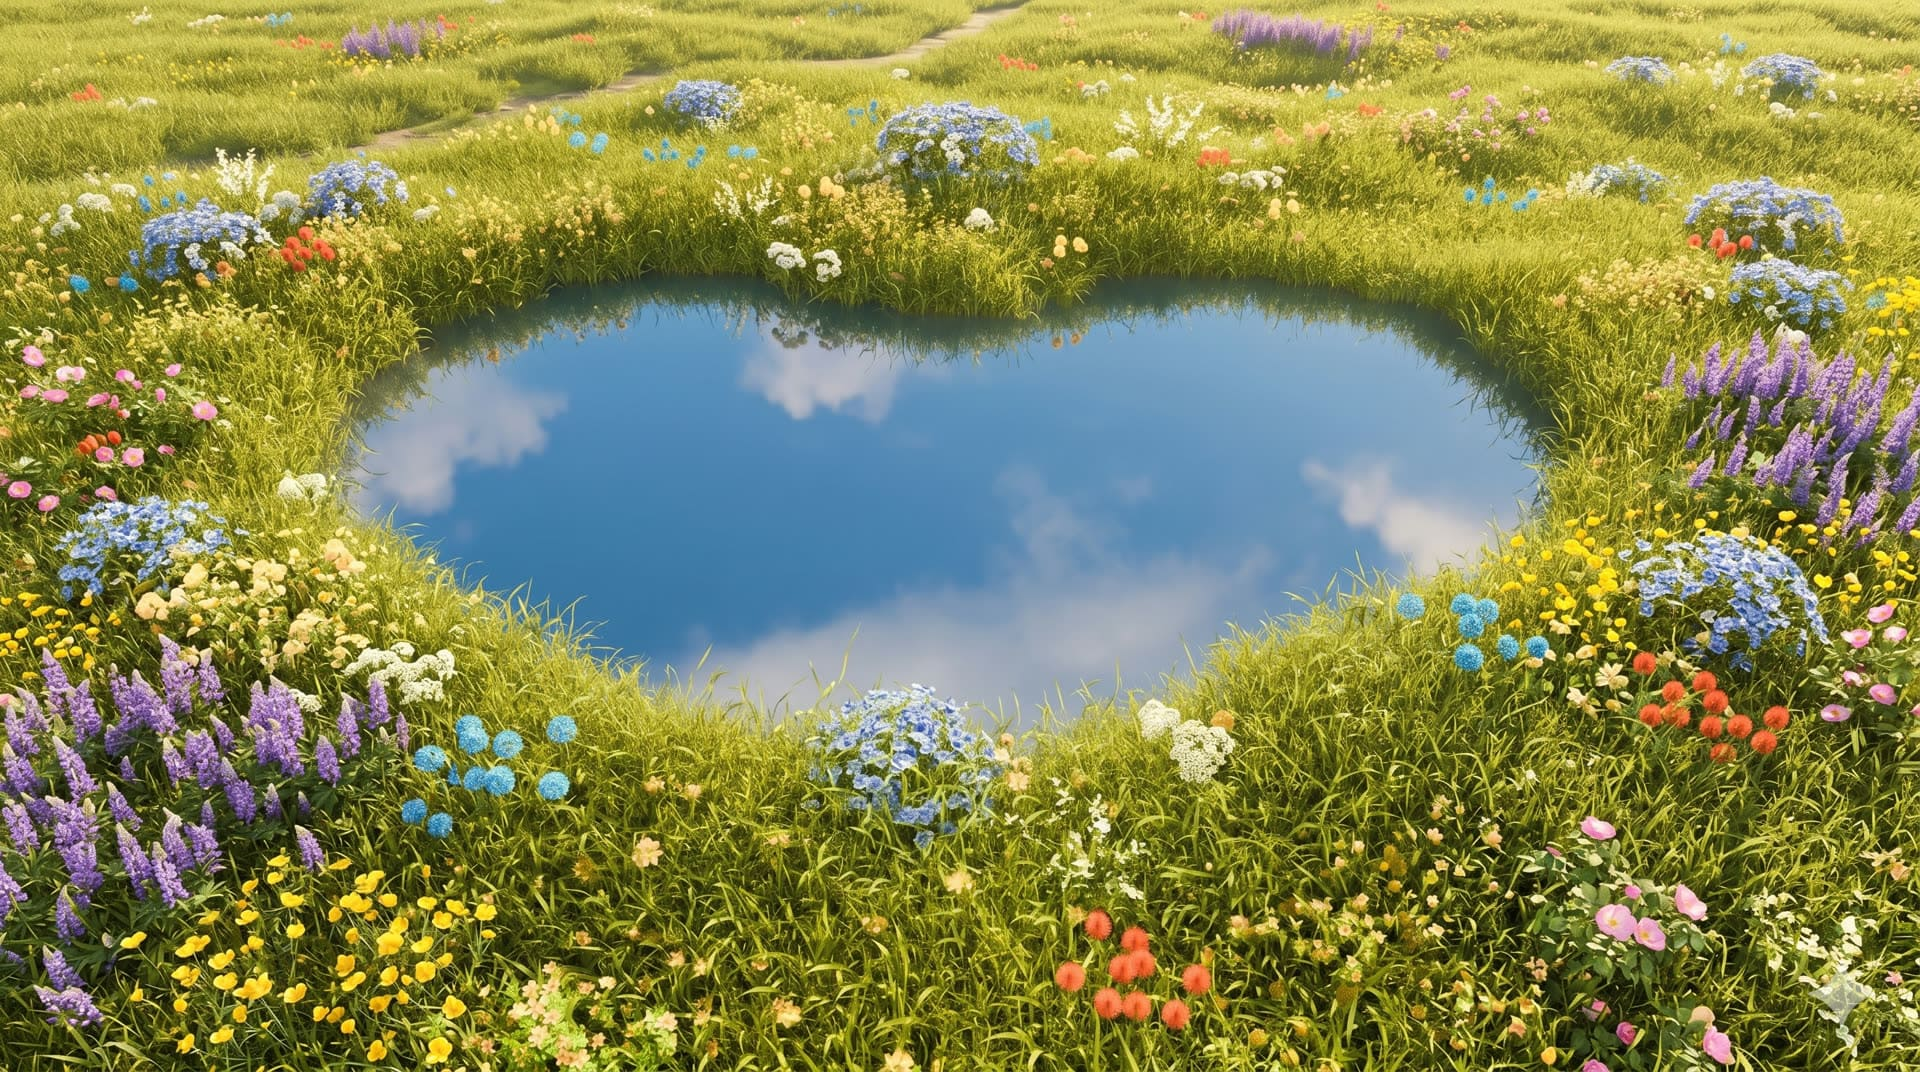
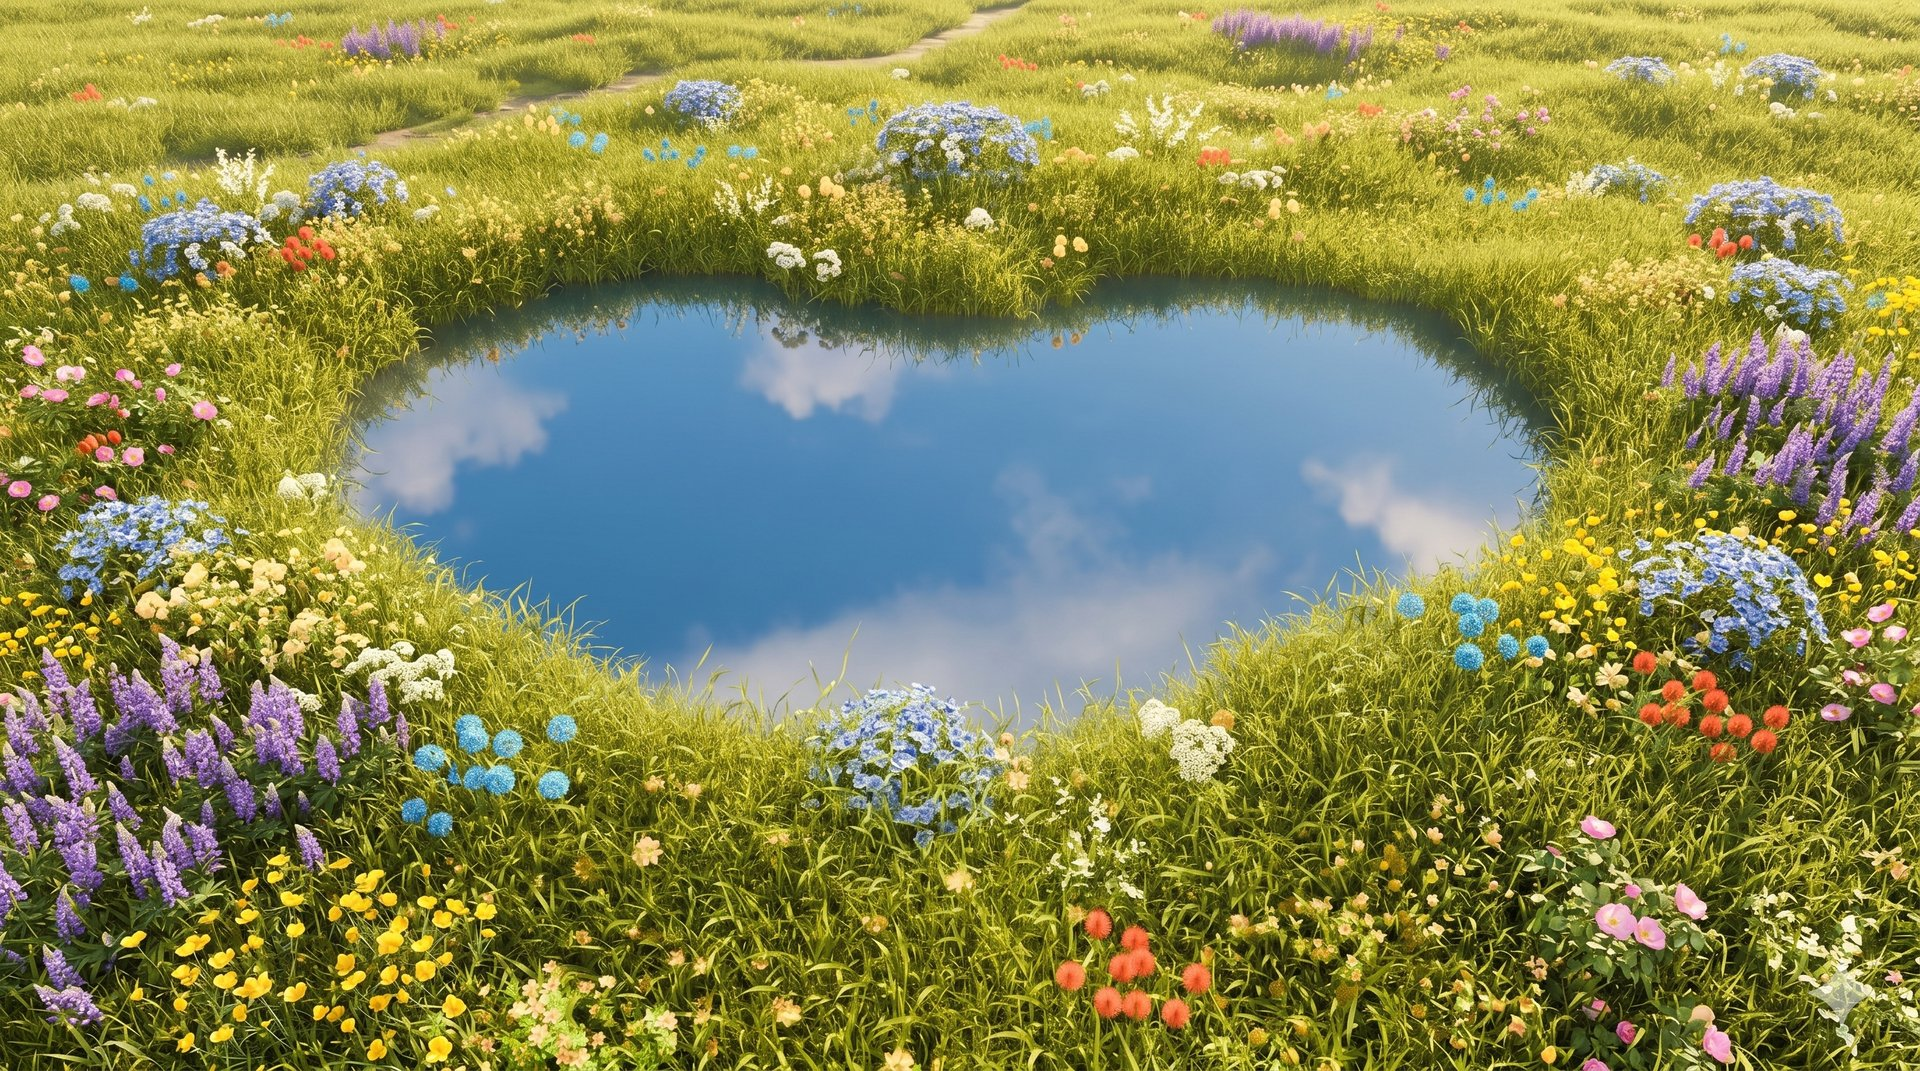
-

diff --git a/case-studies/notification.html b/case-studies/notification.html
@@ -246,7 +246,7 @@
     </head>
 
     <body class="staticrypt-body">
-    <img id="gate-bg-video" src="../assets/encrypted/gate.png" alt="" />
+    <img id="gate-bg-video" src="../assets/encrypted/gate.jpg" alt="" />
         <div id="staticrypt_loading" class="staticrypt-spinner-container">
             <div class="staticrypt-spinner"></div>
         </div>

diff --git a/case-studies/thread-tracing.html b/case-studies/thread-tracing.html
@@ -246,7 +246,7 @@
     </head>
 
     <body class="staticrypt-body">
-    <img id="gate-bg-video" src="../assets/encrypted/gate.png" alt="" />
+    <img id="gate-bg-video" src="../assets/encrypted/gate.jpg" alt="" />
         <div id="staticrypt_loading" class="staticrypt-spinner-container">
             <div class="staticrypt-spinner"></div>
         </div>

diff --git a/case-studies/wren-agent.html b/case-studies/wren-agent.html
@@ -246,7 +246,7 @@
     </head>
 
     <body class="staticrypt-body">
-    <img id="gate-bg-video" src="../assets/encrypted/gate.png" alt="" />
+    <img id="gate-bg-video" src="../assets/encrypted/gate.jpg" alt="" />
         <div id="staticrypt_loading" class="staticrypt-spinner-container">
             <div class="staticrypt-spinner"></div>
         </div>